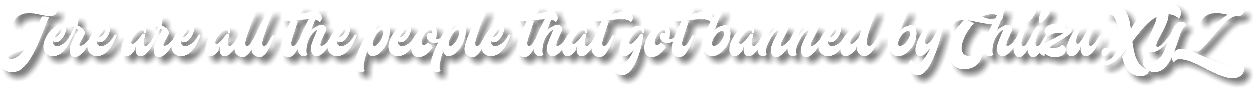
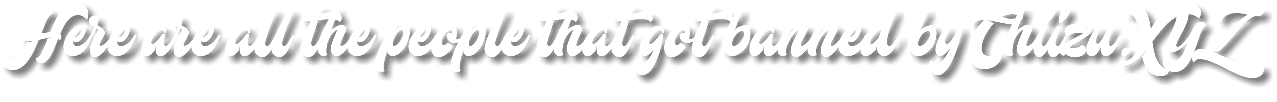
chiizu 1.0.2

Changed region(s): [[0.0, 0.0882, 1.0, 0.8235]]

diff --git a/css/wall-of-shame.css b/css/wall-of-shame.css
@@ -1,1 +1,1 @@
-.version.wall_of_shame{color:#00000B;background-color:#D875E8;}#page{z-index:1;min-height:516px;background-image:none;border-width:0px;border-color:#000000;background-color:transparent;width:100%;max-width:960px;margin-left:auto;margin-right:auto;}#pu616{z-index:2;margin-right:-10000px;width:129.48%;margin-left:-14.8%;}#u616{z-index:2;min-height:480px;border-width:0px;border-color:transparent;background-color:transparent;}.js body{visibility:hidden;}.js body.initialized{visibility:visible;}#u616-bw{z-index:2;min-height:480px;}#u765{z-index:3;min-height:40px;background-color:#000000;padding-bottom:9px;}#u570{z-index:12;background-color:#464646;border-radius:0px 0px 25px 25px ;padding-bottom:3px;position:relative;margin-right:-10000px;width:23.13%;left:-11.15%;}#u591-4{z-index:17;position:relative;margin-right:-10000px;margin-top:2px;width:42.8%;left:26.13%;}#u564{z-index:10;background-color:#464646;border-radius:0px 0px 25px 25px ;padding-bottom:3px;position:relative;margin-right:-10000px;width:23.13%;left:38.44%;}#u603-4{z-index:21;position:relative;margin-right:-10000px;margin-top:2px;width:52.26%;left:21.63%;}#u567{z-index:11;background-color:#464646;border-radius:0px 0px 25px 25px ;padding-bottom:3px;position:relative;margin-right:-10000px;width:23.13%;left:88.03%;}#u582-4{z-index:13;position:relative;margin-right:-10000px;margin-top:2px;width:54.51%;left:23.43%;}#u765-bw{z-index:3;min-height:40px;}#u663-4{z-index:4;display:block;vertical-align:top;position:relative;margin-right:-10000px;margin-top:92px;width:99.12%;left:0.49%;}#u774-4{z-index:33;display:block;vertical-align:top;position:relative;margin-right:-10000px;margin-top:288px;width:101.29%;left:-0.81%;}.css_verticalspacer .verticalspacer{height:calc(100vh - 571px);}#pu771{z-index:8;width:0.01px;margin-bottom:-31px;margin-right:-10000px;margin-top:-45px;}#u771{z-index:8;min-height:85px;background-color:#000000;padding-bottom:31px;}#u768-4{z-index:29;position:relative;margin-right:-10000px;margin-top:54px;width:99.8%;left:-0.21%;}#u591-4_img,#u603-4_img,#u582-4_img,#u768-4_img{display:block;vertical-align:top;width:100%;}#u771-bw{z-index:8;min-height:85px;}#u552{z-index:9;min-height:35px;background-color:#474747;padding-bottom:8px;}#u765_align_to_page,#u771_align_to_page,#u552_align_to_page{margin-left:auto;margin-right:auto;position:relative;max-width:960px;}#u653-4{z-index:25;min-height:27px;background-color:transparent;font-size:16px;line-height:19px;color:#FFF8F9;position:relative;margin-right:-10000px;margin-top:8px;width:99.59%;}#u552-bw{z-index:9;min-height:35px;margin-top:95px;}#muse_css_mq,.html{background-color:#FFFFFF;}body{position:relative;min-width:320px;padding-bottom:29px;}.verticalspacer{min-height:1px;}
+.version.wall_of_shame{color:#000010;background-color:#ECEB39;}#page{z-index:1;min-height:516px;background-image:none;border-width:0px;border-color:#000000;background-color:transparent;width:100%;max-width:960px;margin-left:auto;margin-right:auto;}#pu616{z-index:2;margin-right:-10000px;width:129.48%;margin-left:-14.8%;}#u616{z-index:2;min-height:480px;border-width:0px;border-color:transparent;background-color:transparent;}.js body{visibility:hidden;}.js body.initialized{visibility:visible;}#u616-bw{z-index:2;min-height:480px;margin-top:10px;}#u765{z-index:3;min-height:40px;background-color:#000000;padding-bottom:9px;}#u570{z-index:12;background-color:#464646;border-radius:0px 0px 25px 25px ;padding-bottom:3px;position:relative;margin-right:-10000px;width:23.13%;left:-11.15%;}#u591-4{z-index:17;position:relative;margin-right:-10000px;margin-top:2px;width:42.8%;left:26.13%;}#u564{z-index:10;background-color:#464646;border-radius:0px 0px 25px 25px ;padding-bottom:3px;position:relative;margin-right:-10000px;width:23.13%;left:38.44%;}#u603-4{z-index:21;position:relative;margin-right:-10000px;margin-top:2px;width:52.26%;left:21.63%;}#u567{z-index:11;background-color:#464646;border-radius:0px 0px 25px 25px ;padding-bottom:3px;position:relative;margin-right:-10000px;width:23.13%;left:88.03%;}#u582-4{z-index:13;position:relative;margin-right:-10000px;margin-top:2px;width:54.51%;left:23.43%;}#u765-bw{z-index:3;min-height:40px;}#u663-4{z-index:4;display:block;vertical-align:top;position:relative;margin-right:-10000px;margin-top:92px;width:99.12%;left:0.49%;}#u774-4{z-index:33;display:block;vertical-align:top;position:relative;margin-right:-10000px;margin-top:299px;width:102.74%;left:-2.26%;}.css_verticalspacer .verticalspacer{height:calc(100vh - 579px);}#pu771{z-index:8;width:0.01px;margin-bottom:-30px;margin-right:-10000px;margin-top:-45px;}#u771{z-index:8;min-height:88px;background-color:#000000;padding-bottom:28px;}#u768-4{z-index:29;position:relative;margin-right:-10000px;margin-top:58px;width:100%;}#u591-4_img,#u603-4_img,#u582-4_img,#u768-4_img{display:block;vertical-align:top;width:100%;}#u771-bw{z-index:8;min-height:88px;}#u552{z-index:9;min-height:35px;background-color:#474747;padding-bottom:8px;}#u765_align_to_page,#u771_align_to_page,#u552_align_to_page{margin-left:auto;margin-right:auto;position:relative;max-width:960px;}#u653-4{z-index:25;min-height:27px;background-color:transparent;font-size:16px;line-height:19px;color:#FFF8F9;position:relative;margin-right:-10000px;margin-top:8px;width:99.59%;}#u552-bw{z-index:9;min-height:35px;margin-top:94px;}#muse_css_mq,.html{background-color:#FFFFFF;}body{position:relative;min-width:320px;padding-bottom:29px;}.verticalspacer{min-height:1px;}

diff --git a/wall-of-shame.html b/wall-of-shame.html
@@ -17,7 +17,7 @@ if(typeof Muse == "undefined") window.Muse = {}; window.Muse.assets = {"required
   <title>Wall Of Shame</title>
   <!-- CSS -->
   <link rel="stylesheet" type="text/css" href="css/site_global.css?crc=444006867"/>
-  <link rel="stylesheet" type="text/css" href="css/wall-of-shame.css?crc=198735336" id="pagesheet"/>
+  <link rel="stylesheet" type="text/css" href="css/wall-of-shame.css?crc=283962169" id="pagesheet"/>
     <!--HTML Widget code-->
   
 <style>
@@ -62,14 +62,14 @@ video {
      </div>
     </div>
     <img class="grpelem" id="u663-4" alt="Welcome to the Wall of Shame" src="images/u663-4.png?crc=348932943" data-image-width="1232"/><!-- rasterized frame -->
-    <img class="grpelem" id="u774-4" alt="Jere are all the people that got banned by Chiizu.XYZ" src="images/u774-4.png?crc=232897869" data-image-width="1259"/><!-- rasterized frame -->
+    <img class="grpelem" id="u774-4" alt="Here are all the people that got banned by Chiizu.XYZ" src="images/u774-4.png?crc=4066434257" data-image-width="1277"/><!-- rasterized frame -->
    </div>
-   <div class="verticalspacer" data-offset-top="480" data-content-above-spacer="480" data-content-below-spacer="91" data-sizePolicy="fixed" data-pintopage="page_fixedLeft"></div>
+   <div class="verticalspacer" data-offset-top="490" data-content-above-spacer="489" data-content-below-spacer="90" data-sizePolicy="fixed" data-pintopage="page_fixedLeft"></div>
    <div class="clearfix grpelem" id="pu771"><!-- group -->
     <div class="browser_width grpelem" id="u771-bw">
      <div id="u771"><!-- group -->
       <div class="clearfix" id="u771_align_to_page">
-       <a class="nonblock nontext grpelem" id="u768-4" href="http://steamcommunity.com/profiles/76561198805733530" target="_blank"><!-- rasterized frame --><img id="u768-4_img" alt="http://steamcommunity.com/profiles/76561198805733530 Date 15-03-'18" src="images/u768-4.png?crc=3810221060" data-image-width="958"/></a>
+       <a class="nonblock nontext grpelem" id="u768-4" href="http://steamcommunity.com/profiles/76561198805733530" target="_blank"><!-- rasterized frame --><img id="u768-4_img" alt="http://steamcommunity.com/profiles/76561198805733530 Date 15-03-'18" src="images/u768-4.png?crc=4168995127" data-image-width="960"/></a>
       </div>
      </div>
     </div>
